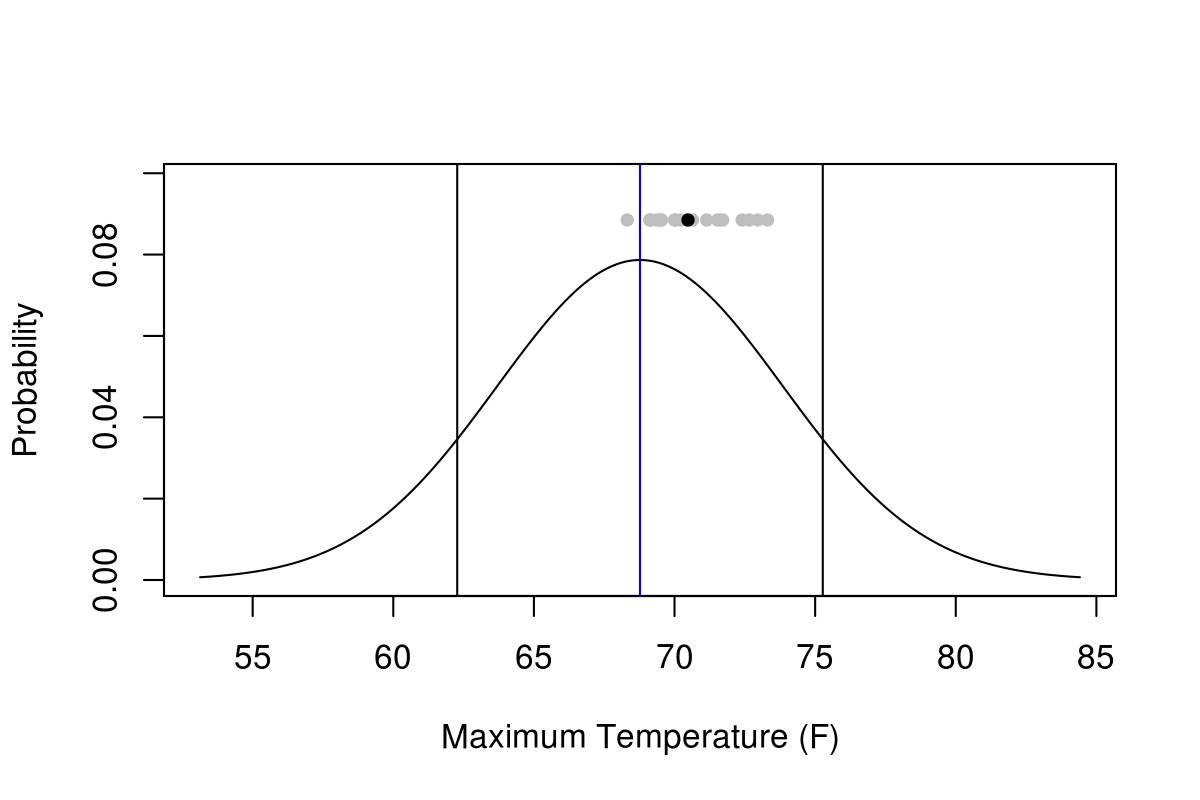
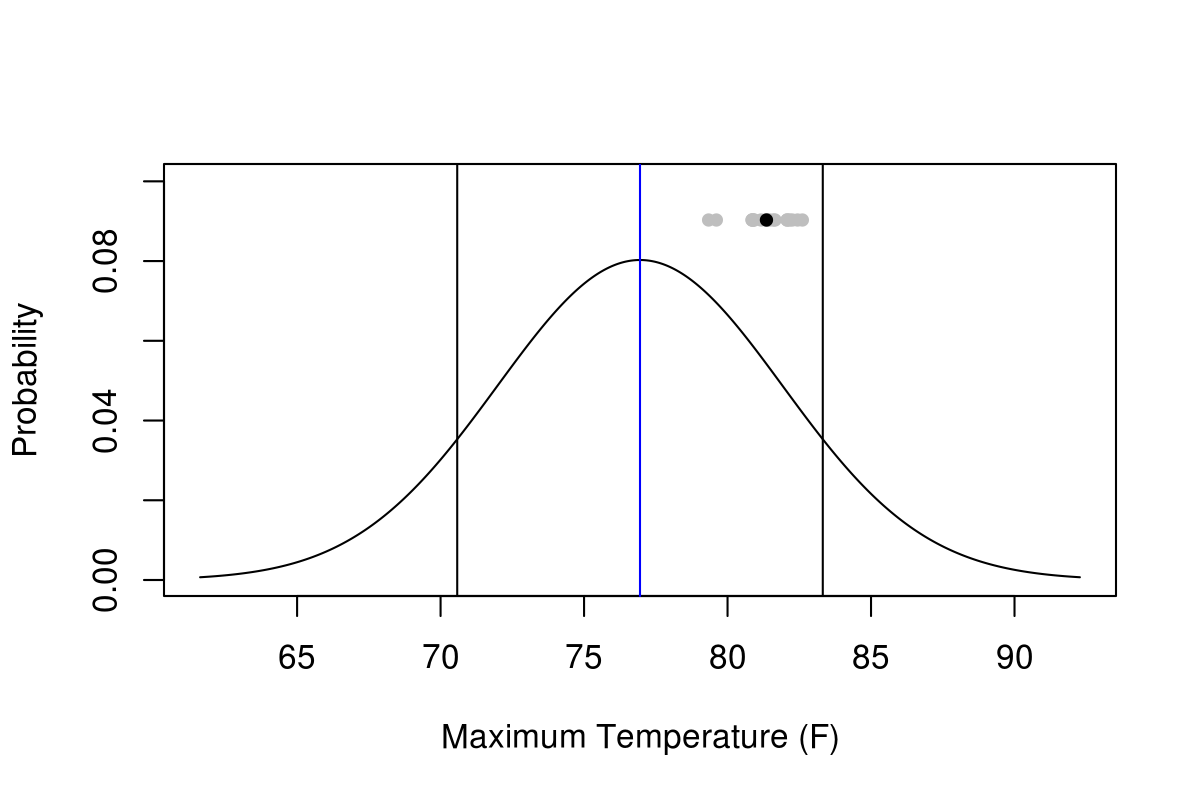
WxChallenge update

diff --git a/ml.md b/ml.md
@@ -1,0 +1,50 @@
+---
+layout: page
+title: 'Machine Learning'
+---
+
+Since I want to go into data science, I am *extremely* interested in Machine Learning. And with my background in meteorology, I am particularly interested in how machine learning methods have been applied in the meteorological field.
+
+This page categorizes the machine learning methods I have studied, thanks to the books (Machine Learning with R)[https://www.amazon.com/Machine-Learning-Second-Brett-Lantz/dp/1784393908/ref=pd_sbs_14_t_0?_encoding=UTF8&psc=1&refRID=8MQDWKS4ZKTNVKX2HNAH] and (Python Machine Learning)[https://www.amazon.com/Python-Machine-Learning-Sebastian-Raschka/dp/1783555130/ref=sr_1_1?s=books&ie=UTF8&qid=1477502703&sr=1-1&keywords=python+machine+learning], as well as several pages on (GitHub)[https://github.com/] and (Stack Overflow)[http://stackoverflow.com/]. Lastly, I've found lots of value in Siraj Raval's Youtube channel, (Sirajology)[https://www.youtube.com/channel/UCWN3xxRkmTPmbKwht9FuE5A].
+
+Within each branch of machine learning method I include papers I've checked out that apply said method.
+
+## Classification methods
+
+### k-Nearest Neighbors (k-NN)
+
+### Naive Bayes
+
+### Decision Trees
+
+### Random Forests
+
+### Rule Learners
+
+## Prediction methods
+
+### Regression Models
+
+### Regression Trees
+
+### Model Trees
+
+### Neural Networks
+
+* Uses
+  + Short-term wind speed prediction ((Salcedo-Sanz et al. 2009)[http://www.sciencedirect.com/science/article/pii/S096014810800390X])
+
+### Support Vector Machines
+
+## Unsupervised methods
+
+### Association Rules
+
+### (k-means Clustering)[https://en.wikipedia.org/wiki/K-means_clustering]
+
+* Variants
+  + (Fuzzy c-means)[https://en.wikipedia.org/wiki/Fuzzy_clustering#Fuzzy_C-means_Clustering] (probabilistic)
+  + (k-medioids)[https://en.wikipedia.org/wiki/K-medoids] & (k-PAM)[https://en.wikipedia.org/wiki/K-medoids#Algorithms] (cluster centers must be data points)
+
+* Uses
+  + Climate classification ((Zscheischler et al. 2012)[http://www.sciencedirect.com/science/article/pii/S1877050912002177])

diff --git a/wxchallenge.md b/wxchallenge.md
@@ -10,11 +10,11 @@ This page provides some tools I use to help me in the [WxChallenge](http://www.w
 * [SREF Plume Viewer](http://www.spc.noaa.gov/exper/sref/srefplumes/)
 * [WxChallenge WxData](http://www.wxchallenge.com/tools/weatherdata.php)
 
-## Calibrated PDFs for KGRI for Wednesday, October 26
+## Calibrated PDFs for KGRI for Thursday, October 27
 
 For information on Bayesian Model Averaging (BMA), scroll to the [bottom of this page](#bma). Click on each image to enlarge it.
 
-> Plots updated 2016-10-25 18:17 GMT
+> Plots updated 2016-10-26 18:19 GMT
 
 <p align="center"><strong>Maximum Temperature</strong></p>
 [<img src="tmax.png" width="700"/>](tmax.png)
